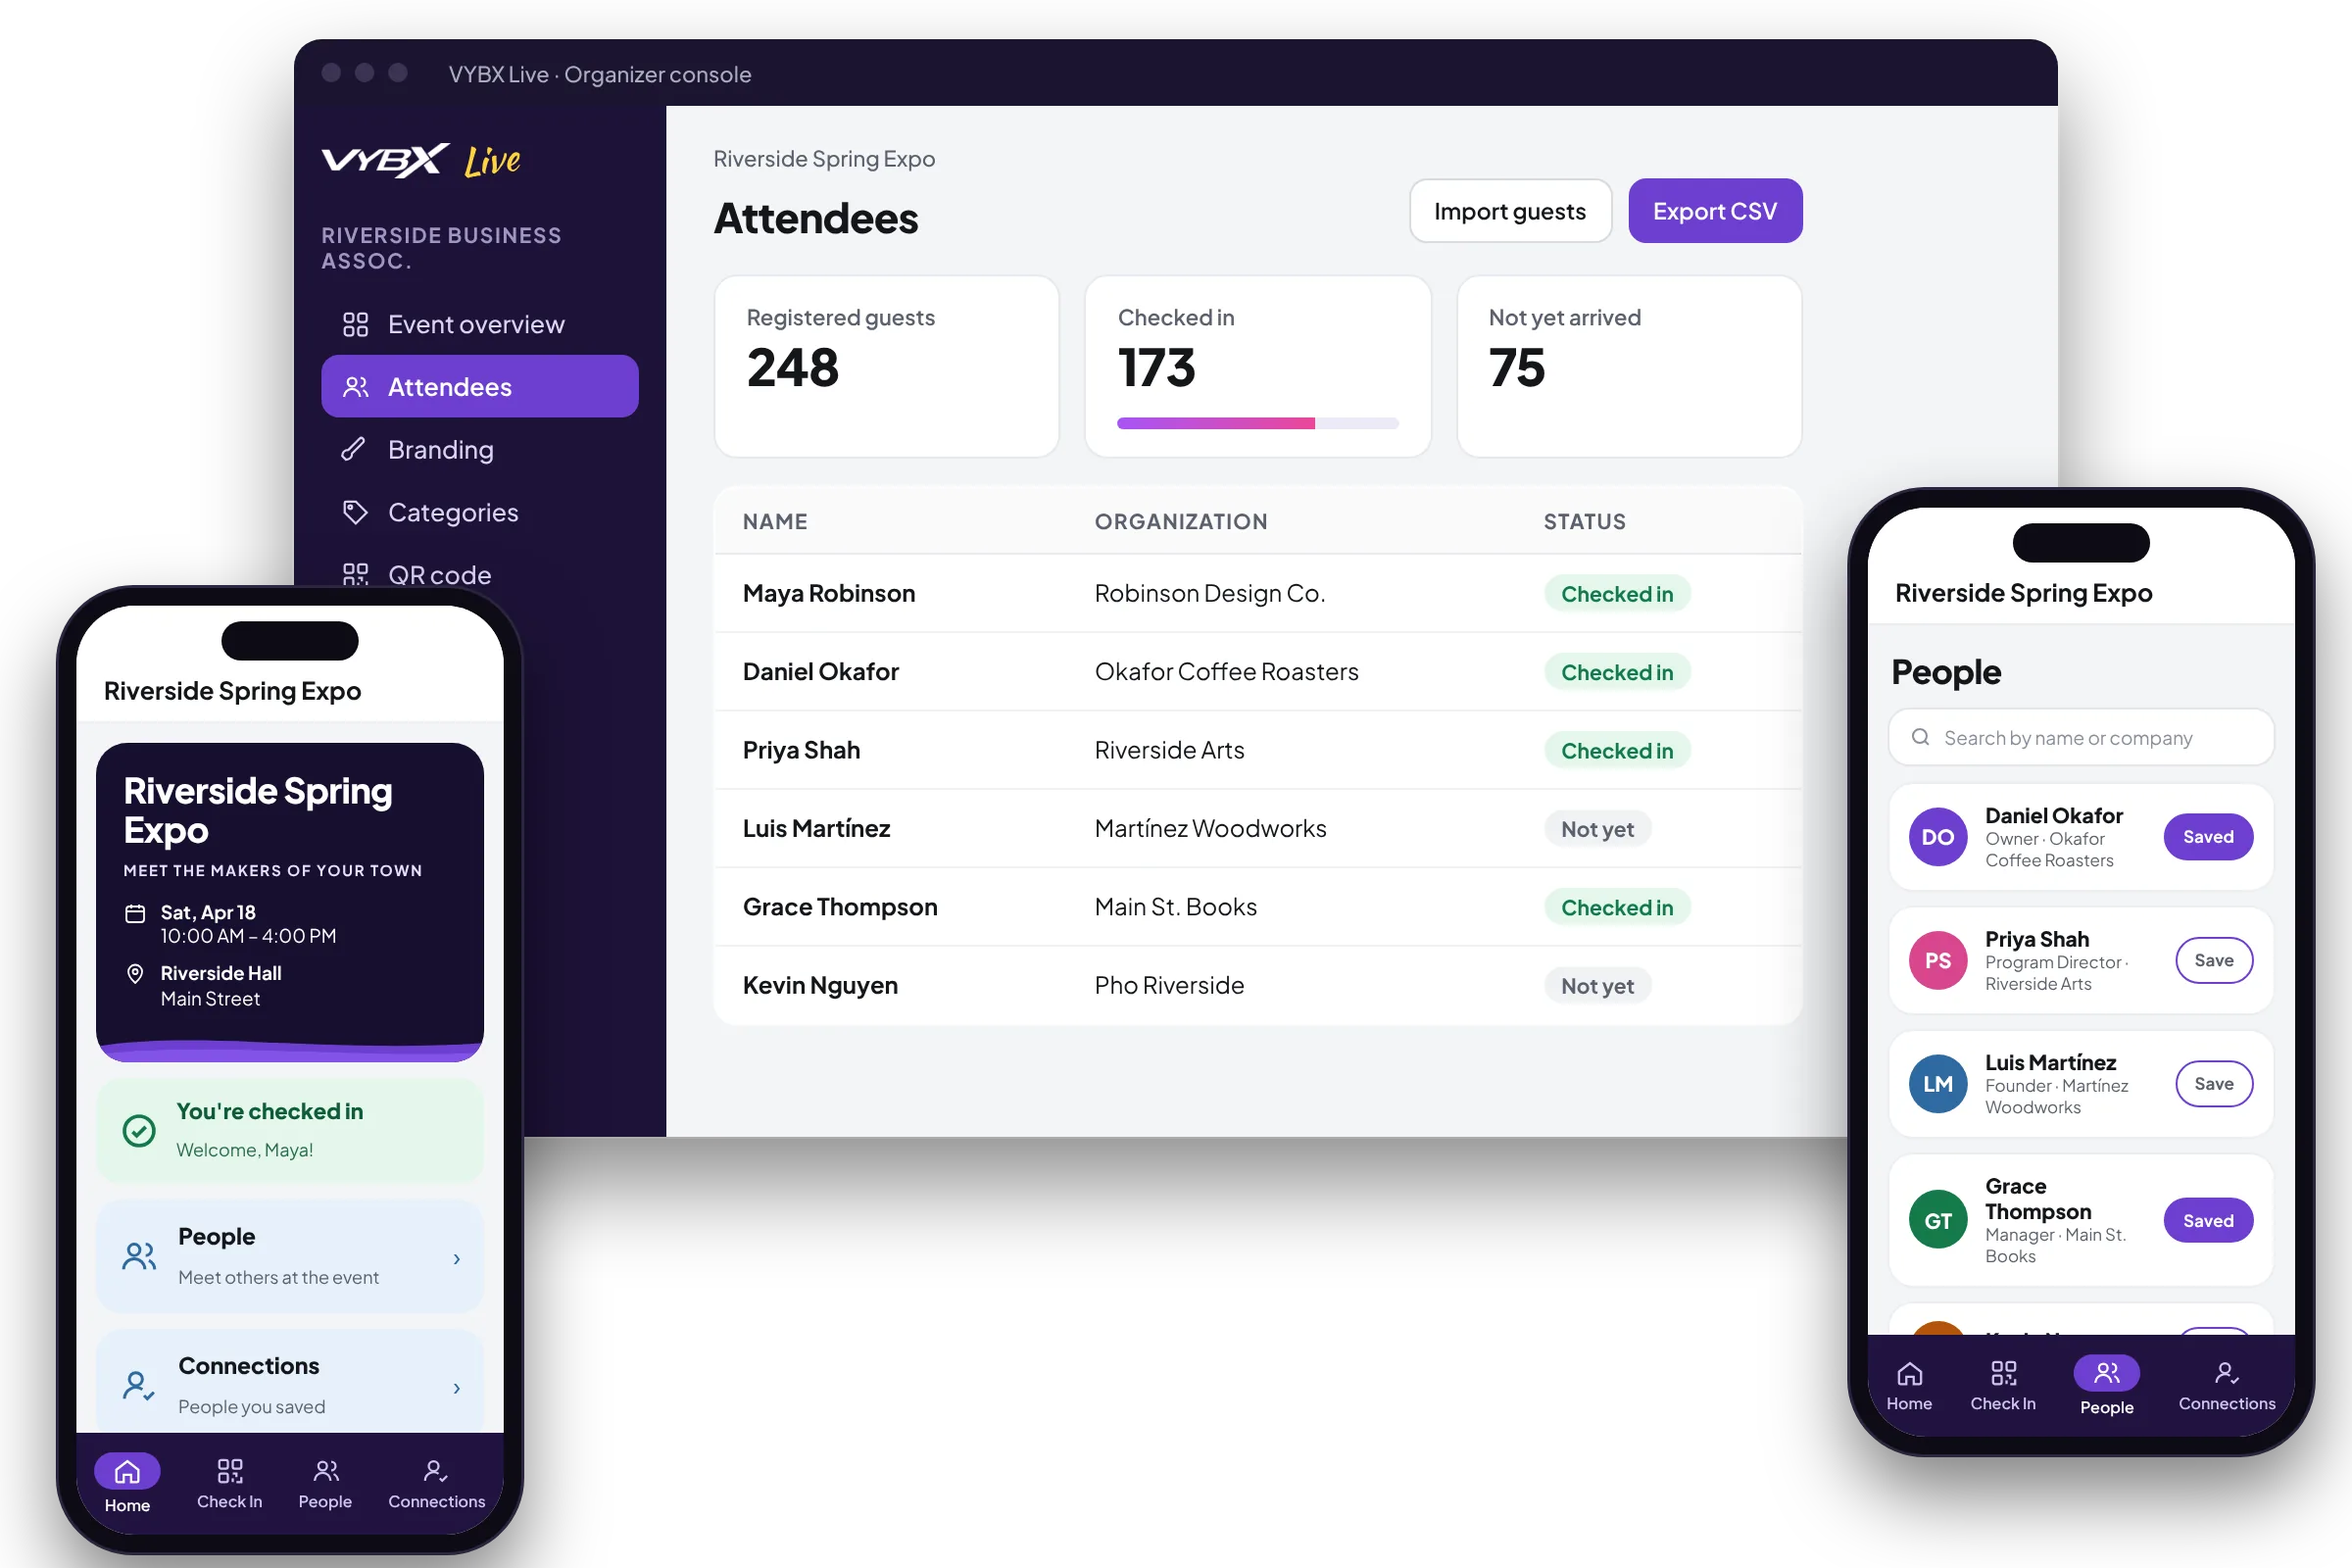
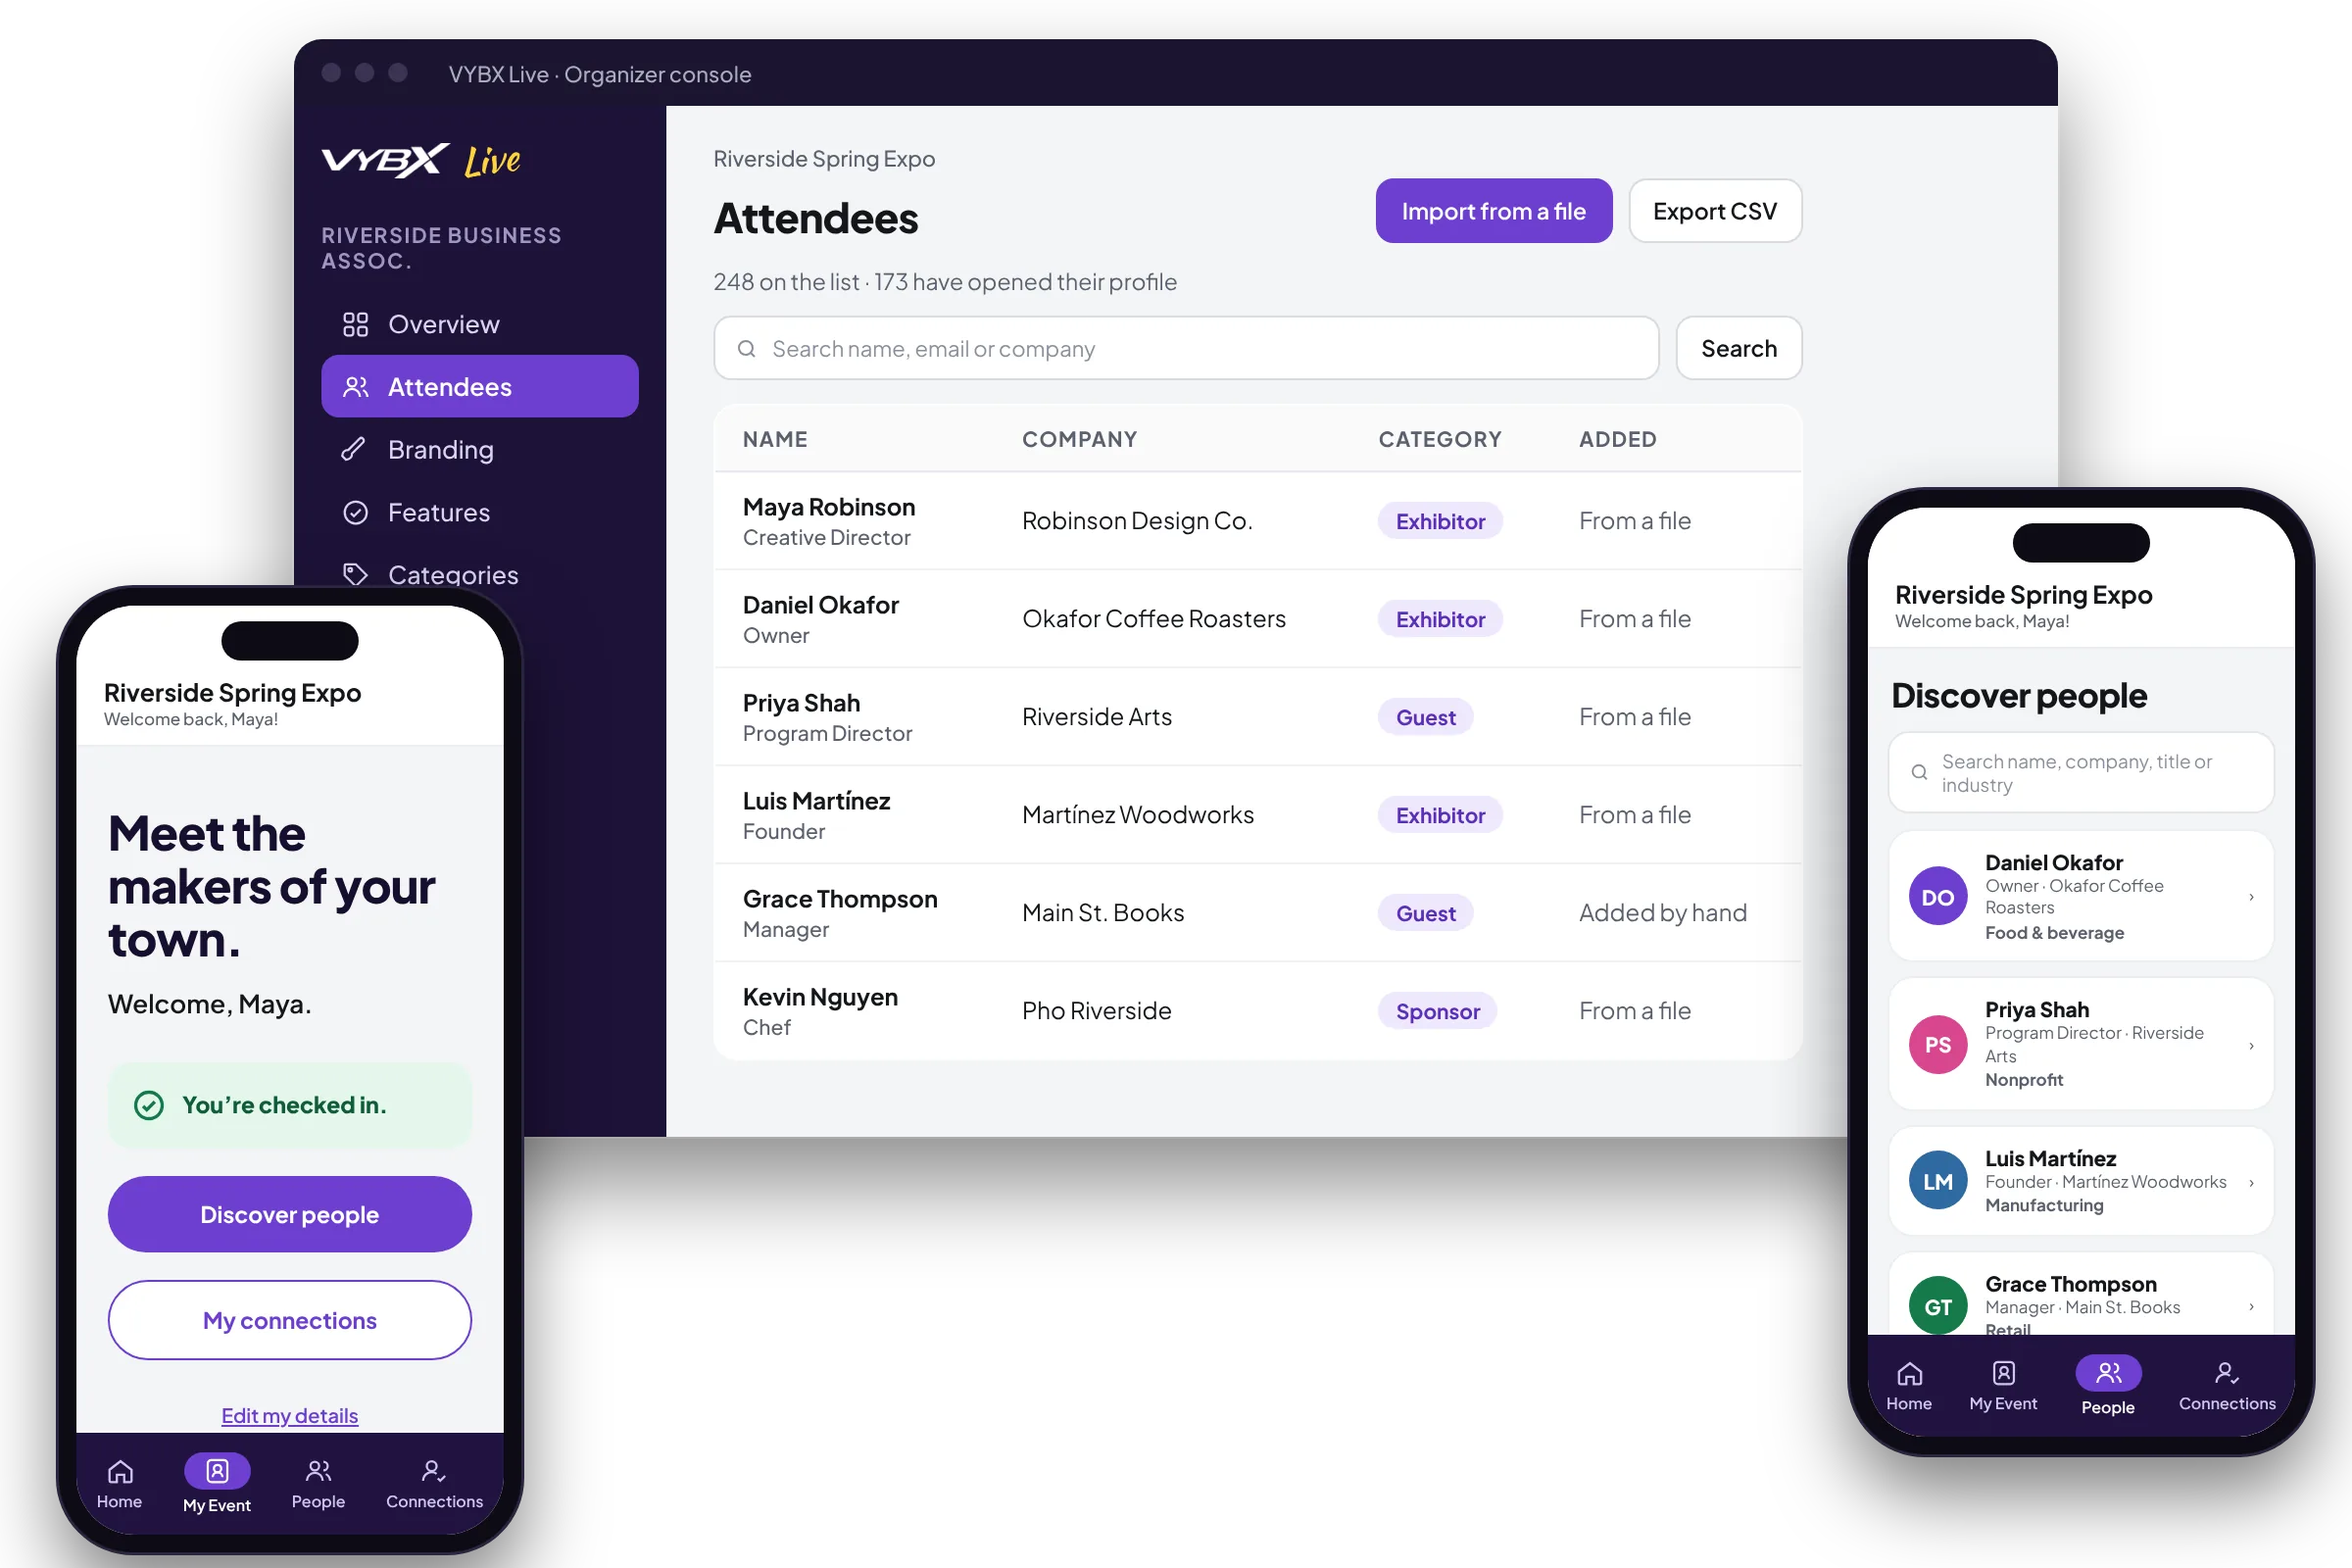
Homepage hero: tighter spacing, larger showcase with intro label, showcase matched to production VYBX Live
Claude-Session: https://claude.ai/code/session_01BHWUDmwkaZU43UbFnL2B2G

diff --git a/assets/site.css b/assets/site.css
@@ -198,13 +198,19 @@ p { margin: 0; }
 
 /* v2 hero + showcase */
 .brand img { width: auto; }
-.hero { padding: 104px 0 56px; }
+.hero { padding: 72px 0 24px; }
+@media (min-width: 861px) {
+  .hero .eyebrow { margin-bottom: 22px; }
+  .hero h1 { font-size: 68px; margin-bottom: 22px; }
+  .hero .lede { margin-bottom: 32px; }
+}
 .hero h1 .grad { display: block; background: linear-gradient(90deg, #A855F7, #EC4899); -webkit-background-clip: text; background-clip: text; color: transparent; padding-bottom: 6px; }
 .hero .actions { display: flex; gap: 14px; justify-content: center; flex-wrap: wrap; }
 .btn-ghost { display: inline-flex; align-items: center; justify-content: center; color: #fff; padding: 16px 32px; border-radius: 999px; border: 1px solid rgba(255,255,255,0.28); font-size: 16px; font-weight: 600; }
 .btn-ghost:hover { color: #fff; border-color: rgba(255,255,255,0.6); background: rgba(255,255,255,0.04); }
 .showcase { padding: 0 0 72px; position: relative; }
-.showcase .wrap { max-width: 1200px; }
+.showcase .wrap { max-width: 1320px; }
+.showcase-intro { position: relative; z-index: 1; text-align: center; font-size: 15px; font-weight: 500; color: #B9A6F0; margin: 0 0 12px; }
 .showcase figure { margin: 0; position: relative; }
 .showcase figure::before { content: ""; position: absolute; inset: 10% 8% 0; background: radial-gradient(closest-side, rgba(168,85,247,0.32), rgba(236,72,153,0.12), transparent); filter: blur(40px); z-index: 0; }
 .showcase img { position: relative; z-index: 1; display: block; width: 100%; height: auto; }
@@ -212,7 +218,8 @@ p { margin: 0; }
 .cap-tag { display: inline-block; margin-right: 8px; padding: 3px 10px; border-radius: 999px; border: 1px solid rgba(110,231,183,0.4); color: #6EE7B7; font-size: 11px; font-weight: 700; letter-spacing: 1.2px; text-transform: uppercase; vertical-align: 1px; }
 #solutions { scroll-margin-top: 90px; }
 @media (max-width: 860px) {
-  .hero { padding: 56px 0 40px; }
+  .hero { padding: 44px 0 32px; }
+  .showcase-intro { text-align: left; font-size: 14px; margin-bottom: 4px; }
   .hero .actions { justify-content: flex-start; }
   .hero .actions .btn-ghost { height: 56px; }
   .showcase { padding-bottom: 48px; }

diff --git a/index.html b/index.html
@@ -74,12 +74,13 @@
 
 <section class="showcase" aria-label="VYBX Live product illustration">
 <div class="wrap">
+<p class="showcase-intro">Explore VYBX Live — our event experience platform.</p>
 <figure>
 <picture>
 <source media="(max-width: 860px)" srcset="/assets/showcase/mob.webp" width="1520" height="1240">
-<img src="/assets/showcase/desk.webp" width="2400" height="1600" alt="VYBX Live organizer attendee list showing check-in status, beside phones showing an attendee's event check-in and the people directory" fetchpriority="high" decoding="async">
+<img src="/assets/showcase/desk.webp" width="2400" height="1600" alt="VYBX Live organizer attendee list with import, export and categories, beside phones showing an attendee's checked-in event home and the Discover people directory" fetchpriority="high" decoding="async">
 </picture>
-<figcaption><span class="cap-tag">Available Today</span> Illustration based on the VYBX Live interface. Event, people and numbers are fictional. Every feature shown is available today.</figcaption>
+<figcaption><span class="cap-tag">Available Today</span> Illustration of VYBX Live screens in production today. Event, people and numbers are fictional.</figcaption>
 </figure>
 </div>
 </section>
